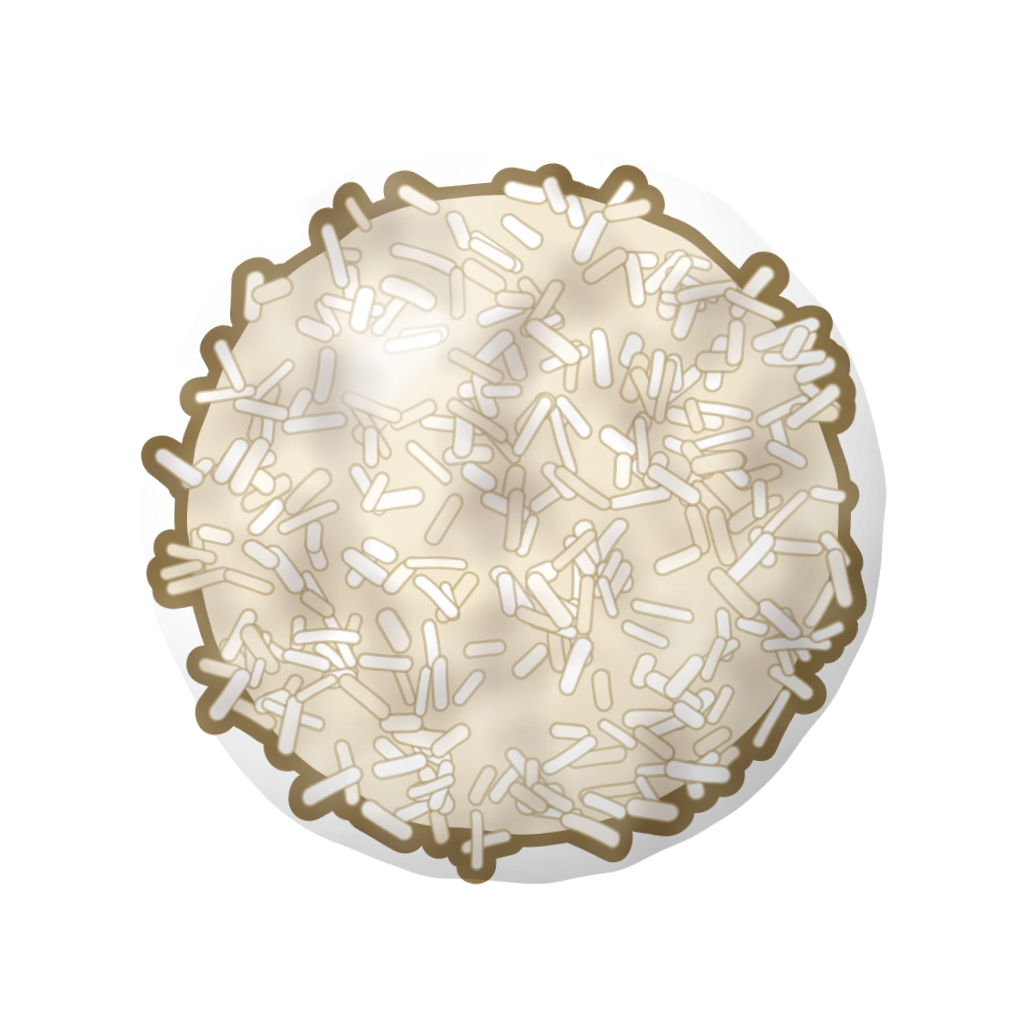
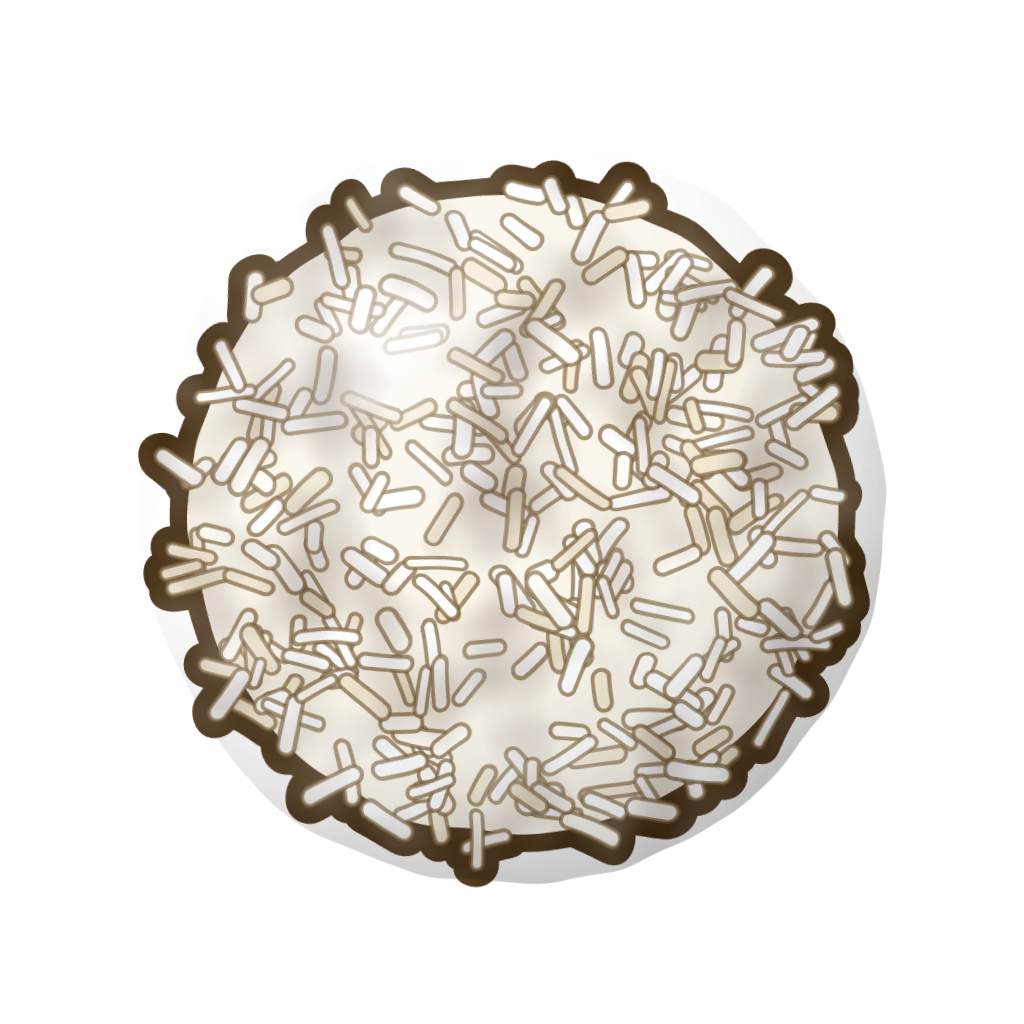
Lesbarkeit: Kokos mit dunkler Kontur, kräftigere Textfarben, feiner Rand um alle Pralinen
Die Kokoskugel verschwand auf dem hellen Papierförmchen (ΔL* Rand 15). Sie
hat jetzt eine dunkle Kontur und kräftigere Flockenränder (26); das
Standard-Förmchen ist etwas dunkler, alle Pralinen bekommen per CSS einen
feinen dunklen Rand.

Nebentext, Gold-, Grün- und Rosé-Text sowie der Rosé-Knopf lagen unter
Kontrast 4,5 und sind dunkler; kleinste Etiketten 11 statt 10 px, Vorschau
beim Ziehen etwas deckender. tools/contrast.cjs misst beides.

Claude-Session: https://claude.ai/code/session_01YDDbMkut7raAPq9iGCkgbn

Changed region(s): [[0.125, 0.1562, 0.875, 0.875]]

diff --git a/index.html b/index.html
@@ -18,7 +18,7 @@
 @font-face{font-family:Nunito;font-style:normal;font-weight:800;font-display:swap;src:url(fonts/nunito-latin-800-normal.woff2) format('woff2')}
 @font-face{font-family:Nunito;font-style:normal;font-weight:900;font-display:swap;src:url(fonts/nunito-latin-900-normal.woff2) format('woff2')}
 @font-face{font-family:'Playfair Display';font-style:italic;font-weight:700;font-display:swap;src:url(fonts/playfair-display-latin-700-italic.woff2) format('woff2')}
-:root{--rows:8;--rr:1;--sa:calc(env(safe-area-inset-top,0px) + env(safe-area-inset-bottom,0px));--bw:min(94vw,520px,calc((100vh - 182px - var(--sa))/(var(--rr)*.94 + .36)));--gap:calc(var(--bw)*.008);--cream:#fbeee6;--card:#fffaf4;--ink:#4a2e22;--mut:#8d7163;--box:#6b4430;--box2:#553323;--gold:#c99a3e;--rose:#e0567c;--cf1:#fbf1df;--cf2:#efdfc4;--ck1:#f3e3c6;--ck2:#d6bc93;--ok:#4f9a5d;--line:#efdccb;
+:root{--rows:8;--rr:1;--sa:calc(env(safe-area-inset-top,0px) + env(safe-area-inset-bottom,0px));--bw:min(94vw,520px,calc((100vh - 182px - var(--sa))/(var(--rr)*.94 + .36)));--gap:calc(var(--bw)*.008);--cream:#fbeee6;--card:#fffaf4;--ink:#4a2e22;--mut:#735648;--goldt:#8a5f10;--roset:#b3305a;--box:#6b4430;--box2:#553323;--gold:#c99a3e;--rose:#e0567c;--cf1:#f8ead0;--cf2:#e8d3ac;--ck1:#ecd6ae;--ck2:#cdab74;--ok:#2c7a41;--line:#efdccb;
   --serif:'Playfair Display',Georgia,serif;--sans:Nunito,system-ui,sans-serif}
 @supports (height:1dvh){:root{--bw:min(94vw,520px,calc((100dvh - 182px - var(--sa))/(var(--rr)*.94 + .36)))}}
 *{box-sizing:border-box;-webkit-tap-highlight-color:transparent;-webkit-user-select:none;user-select:none;-webkit-touch-callout:none}
@@ -47,8 +47,8 @@ header{margin-top:auto;width:var(--bw);display:flex;justify-content:space-betwee
 @keyframes bmp{40%{transform:scale(1.25)}}
 .stat{flex:0 0 auto;text-align:center;line-height:1;border-left:2px solid var(--line);padding-left:9px}
 .stat b{display:block;font-size:22px;font-weight:900}
-.stat small{font-size:10px;color:var(--mut);font-weight:800;letter-spacing:.5px}
-#mv.low b{color:var(--rose);animation:bmp .7s infinite}
+.stat small{font-size:11px;color:var(--mut);font-weight:800;letter-spacing:.5px}
+#mv.low b{color:var(--roset);animation:bmp .7s infinite}
 /* Schachtel */
 .box{position:relative;width:var(--bw);background:linear-gradient(150deg,rgba(255,255,255,.2) 0,rgba(255,255,255,0) 28%,rgba(0,0,0,0) 70%,rgba(0,0,0,.18) 100%),linear-gradient(145deg,var(--box),var(--box2));border-radius:calc(var(--bw)*.05);padding:calc(var(--bw)*.03);box-shadow:0 6px 0 rgba(0,0,0,.18),0 14px 28px rgba(74,46,34,.3),inset 0 0 0 3px var(--gold),inset 0 0 0 5px rgba(0,0,0,.12);transition:background .4s}
 .box.shake{animation:shk .35s}
@@ -61,7 +61,7 @@ header{margin-top:auto;width:var(--bw);display:flex;justify-content:space-betwee
 .cell.hl{--f1:#fff3c4;--f2:#f6d98a;--k1:#f8dc8a;--k2:#e2b548}
 .cell.hl.pure{--f1:#fff;--f2:#ffd6e1;--k1:#ffc1d2;--k2:#ff8fae;box-shadow:0 0 10px #ffb3c8}
 /* Pralinen: Sprites aus sprites/ (tools/make-sprites.mjs), Schatten per CSS */
-.prl,.blk{position:absolute;inset:2%;background:center/contain no-repeat;--sh:drop-shadow(0 2px 2px rgba(40,20,10,.45));filter:var(--sh)}
+.prl,.blk{position:absolute;inset:2%;background:center/contain no-repeat;--sh:drop-shadow(0 0 1px rgba(40,20,10,.7)) drop-shadow(0 2px 2px rgba(40,20,10,.45));filter:var(--sh)}
 .p0{background-image:url(sprites/truffle-dark.webp)}
 .p1{background-image:url(sprites/nougat.webp)}
 .p2{background-image:url(sprites/coconut.webp)}
@@ -71,8 +71,8 @@ header{margin-top:auto;width:var(--bw);display:flex;justify-content:space-betwee
 /* Krokant: blockiert, verschwindet erst wenn seine Reihe verpackt wird */
 .blk{background-image:url(sprites/brittle.webp)}
 .blk.l2{background-image:url(sprites/brittle-gold.webp)}
-.piece .prl,.gl .prl,.demo .prl,.demo .blk{--sh:drop-shadow(0 1px 1px rgba(40,20,10,.45))}
-#drag .prl{--sh:drop-shadow(0 2px 2px rgba(40,20,10,.45))}
+.piece .prl,.gl .prl,.demo .prl,.demo .blk{--sh:drop-shadow(0 0 1px rgba(40,20,10,.7)) drop-shadow(0 1px 1px rgba(40,20,10,.45))}
+#drag .prl{--sh:drop-shadow(0 0 1px rgba(40,20,10,.7)) drop-shadow(0 2px 2px rgba(40,20,10,.45))}
 /* Eiskonfekt: Sorte + Frostring + Zahl; schmilzt nach einigen Zügen zu Krokant */
 .prl[data-t]::after{content:"";position:absolute;inset:-4%;background:url(sprites/frost.webp) center/contain no-repeat}
 .prl[data-t]::before{content:attr(data-t);position:absolute;inset:0;z-index:1;display:flex;align-items:center;justify-content:center;font-weight:900;font-size:calc(var(--bw)*.052);color:#fff;
@@ -81,18 +81,18 @@ header{margin-top:auto;width:var(--bw);display:flex;justify-content:space-betwee
 @keyframes hot{50%{filter:drop-shadow(0 0 2px #ff2f6e) drop-shadow(0 0 6px #ff4f84)}}
 .piece .prl[data-t]::before,.demo .prl[data-t]::before{font-size:calc(var(--bw)*.03)}
 #drag .prl[data-t]::before{font-size:calc(var(--bw)*.052)}
-.ghost{opacity:.5}
+.ghost{opacity:.6}
 .pop{animation:pop .38s ease-out forwards}
 @keyframes pop{0%{transform:scale(1)}40%{transform:scale(1.25)}100%{transform:scale(0) rotate(80deg);opacity:0}}
 .place{animation:plc .2s ease-out}
 @keyframes plc{from{transform:scale(.65)}to{transform:scale(1)}}
 .melt{animation:mlt .5s ease-out}
-@keyframes mlt{0%{transform:scale(1.5);filter:brightness(2) var(--sh)}100%{transform:scale(1);filter:brightness(1) var(--sh)}}
+@keyframes mlt{0%{transform:scale(1.5);filter:brightness(2)}100%{transform:scale(1);filter:brightness(1)}}
 /* Ablage + Teile */
 .tray{width:var(--bw);flex:0 1 calc(var(--bw)*.42);min-height:calc(var(--bw)*.3);display:flex;align-items:stretch;margin-top:12px;gap:4px}
 .slot{flex:1;position:relative;display:flex;align-items:center;justify-content:center;cursor:grab;border-radius:16px}
 .slot.hold{background:rgba(255,250,244,.7);box-shadow:inset 0 0 0 2px var(--line);margin-right:4px}
-.slot.hold::before{content:"Ablage";position:absolute;top:5px;left:0;right:0;text-align:center;font-size:10px;letter-spacing:1px;text-transform:uppercase;color:var(--mut);font-weight:800}
+.slot.hold::before{content:"Ablage";position:absolute;top:5px;left:0;right:0;text-align:center;font-size:11px;letter-spacing:1px;text-transform:uppercase;color:var(--mut);font-weight:800}
 .slot.hold.tgt{box-shadow:inset 0 0 0 3px var(--gold);background:#fff3d6}
 .piece{position:relative;transition:opacity .2s,filter .2s}
 .piece>div{position:absolute}
@@ -127,7 +127,7 @@ header{margin-top:auto;width:var(--bw);display:flex;justify-content:space-betwee
 .card p{font-size:15px;line-height:1.4;margin:8px 0;text-align:left}
 .btn{display:block;width:100%;font-size:19px;font-weight:900;background:var(--box);color:#fff3dc;border-radius:16px;padding:14px 18px;margin-top:10px;box-shadow:0 4px 0 rgba(0,0,0,.28),inset 0 0 0 2px var(--gold)}
 .btn:active{transform:translateY(2px);box-shadow:0 2px 0 rgba(0,0,0,.28),inset 0 0 0 2px var(--gold)}
-.btn.rose{background:var(--rose);box-shadow:0 4px 0 #a8355a}
+.btn.rose{background:#c63a66;box-shadow:0 4px 0 #8f2547}
 .btn.gh{background:#f3e3d6;color:var(--ink);box-shadow:0 4px 0 #dfc6b2;font-size:16px}
 .btn small{display:block;font-size:12px;font-weight:800;opacity:.85}
 .rows{text-align:left;margin:10px 0 2px;font-size:15px}
@@ -151,7 +151,7 @@ header{margin-top:auto;width:var(--bw);display:flex;justify-content:space-betwee
 .mini .btn{font-size:14px;padding:11px 6px;margin-top:8px}
 .qs{background:#fff;border-radius:16px;box-shadow:inset 0 0 0 2px var(--line);padding:9px 12px 7px;margin-top:10px;text-align:left;font-size:14px;line-height:1.25}
 .qs h4{margin:0 0 3px;font-size:11px;letter-spacing:1.5px;text-transform:uppercase;color:var(--mut);display:flex;justify-content:space-between}
-.qs h4 b{color:var(--gold);font-size:13px;letter-spacing:0}
+.qs h4 b{color:var(--goldt);font-size:13px;letter-spacing:0}
 .q{display:flex;justify-content:space-between;gap:8px;padding:3px 0}.q b{white-space:nowrap}.q.ok{color:var(--ok)}
 .dots{letter-spacing:3px;color:var(--gold)}
 .lbl{font-size:12px;color:var(--mut);font-weight:800}
@@ -222,7 +222,7 @@ function roundPos(){const n=M.streak.n||0;return n?((n-1)%7)+1:0}
 function bumpStreak(){const s=M.streak,d=today();if(s.d===d)return;s.n=(s.n||0)+1;s.d=d;const p=roundPos();addStars(p===7?5:1);saveMeta();pt('round',{n:s.n});
   if(FX)setTimeout(()=>toast(p===7?'Tagesrunde voll! +5 ★':'Tagesrunde: Tag '+p+' von 7 · +1 ★','sm'),700);if(s.n>=3)award('tag3');if(s.n>=7)award('tag7')}
 // Sterne (aus Tageszielen und Tagesrunde) schalten Förmchen frei – rein optisch
-const CUPS=[{n:'Creme',at:0,v:['#fbf1df','#efdfc4','#f3e3c6','#d6bc93']},{n:'Rosé',at:5,v:['#fff3f5','#fbd6de','#f9c6d2','#e497ad']},{n:'Mint',at:12,v:['#f3fbf1','#d5edd3','#cbe8cc','#94c79d']},
+const CUPS=[{n:'Creme',at:0,v:['#f8ead0','#e8d3ac','#ecd6ae','#cdab74']},{n:'Rosé',at:5,v:['#fff3f5','#fbd6de','#f9c6d2','#e497ad']},{n:'Mint',at:12,v:['#f3fbf1','#d5edd3','#cbe8cc','#94c79d']},
   {n:'Himmel',at:25,v:['#f2f8fe','#d3e6f7','#c6def3','#8fb6dc']},{n:'Gold',at:45,v:['#fffae2','#f7e5a6','#f3d98a','#d0a63a']}];
 function addStars(n){const o=M.stars||0;M.stars=o+n;const c=CUPS.find(c=>c.at>o&&c.at<=M.stars);if(c&&FX)setTimeout(()=>toast('Neu: Förmchen „'+c.n+'“','sm'),2600)}
 // Tagesziele: drei pro Tag, für alle gleich (aus dem Datum abgeleitet); Fortschritt zählt über alle Partien des Tages
@@ -494,7 +494,7 @@ function shareText(){return'Truffle Box'+(G.mode==='tag'?' · Tagesschachtel '+G
 function showOver(){document.body.classList.remove('ingame');const s=G.stats,tag=G.mode==='tag',top=tag?M.daily.best:best;
   $('overCard').innerHTML='<div class="sub">'+(tag?'Tagesschachtel':'Saison')+'</div><div class="t">'+(G.over==='herz'?'Kundschaft verärgert!':'Schachtel voll!')+'</div>'+
    '<div class="s">'+G.score+'</div><div class="b">'+(G.score>=top&&G.score>0?'Neuer '+(tag?'Tagesbestwert':'Bestwert')+'!':(tag?'Tagesbestwert ':'Bestwert ')+top)+'</div>'+
-   (G.score<top&&G.score>=top*.75?'<div class="b" style="color:var(--rose);margin-top:6px">Nur '+(top-G.score)+' Punkte bis zum '+(tag?'Tagesbestwert':'Bestwert')+' – noch eine?</div>':'')+
+   (G.score<top&&G.score>=top*.75?'<div class="b" style="color:var(--roset);margin-top:6px">Nur '+(top-G.score)+' Punkte bis zum '+(tag?'Tagesbestwert':'Bestwert')+' – noch eine?</div>':'')+
    '<button class="btn rose" data-a="again">Neue Schachtel</button>'+
    '<div class="rows"><div><span>Erreicht</span><b>Bestellung '+G.stage+' · '+s.orders+' geliefert</b></div><div><span>Reihen verpackt</span><b>'+s.lines+(s.pure?' · '+s.pure+' sortenrein':'')+'</b></div><div><span>Rang</span><b>'+rankOf(M.bestStage)+'</b></div></div>'+
    rankProg()+questHtml()+(tag?'<div class="lbl" style="margin-top:8px">Tagesrunde: Tag '+roundPos()+' von 7 · morgen wartet die nächste Tagesschachtel</div>':'')+

diff --git a/README.md b/README.md
@@ -65,6 +65,14 @@ node tools/playtest.cjs    # Bot-Playtest: Partielänge, Hänger, Ertrag für Ta
 
 Befunde stehen in `docs/playtest/`.
 
+## Lesbarkeit
+
+```sh
+node tools/contrast.cjs    # Textkontraste (Ziel ≥ 4,5) und jede Praline gegen jedes Förmchen (ΔL* Rand / Fläche)
+```
+
+Alle Pralinen tragen eine dunkle Kontur und bekommen im Spiel zusätzlich einen feinen dunklen Rand per CSS; nach Änderungen an Sprites, Förmchen- oder Textfarben das Skript laufen lassen.
+
 ## Schwierigkeit / Balancing
 
 Alle Stellschrauben stehen in `P(s)` in `index.html` (s = Nummer der Bestellung): Sortenzahl, Bestellmenge, Zuglimit, sperrige Teile, Krokant und Eiskonfekt. Wie sich Änderungen auswirken, zeigt eine Bot-Simulation mit der echten Spiellogik:
